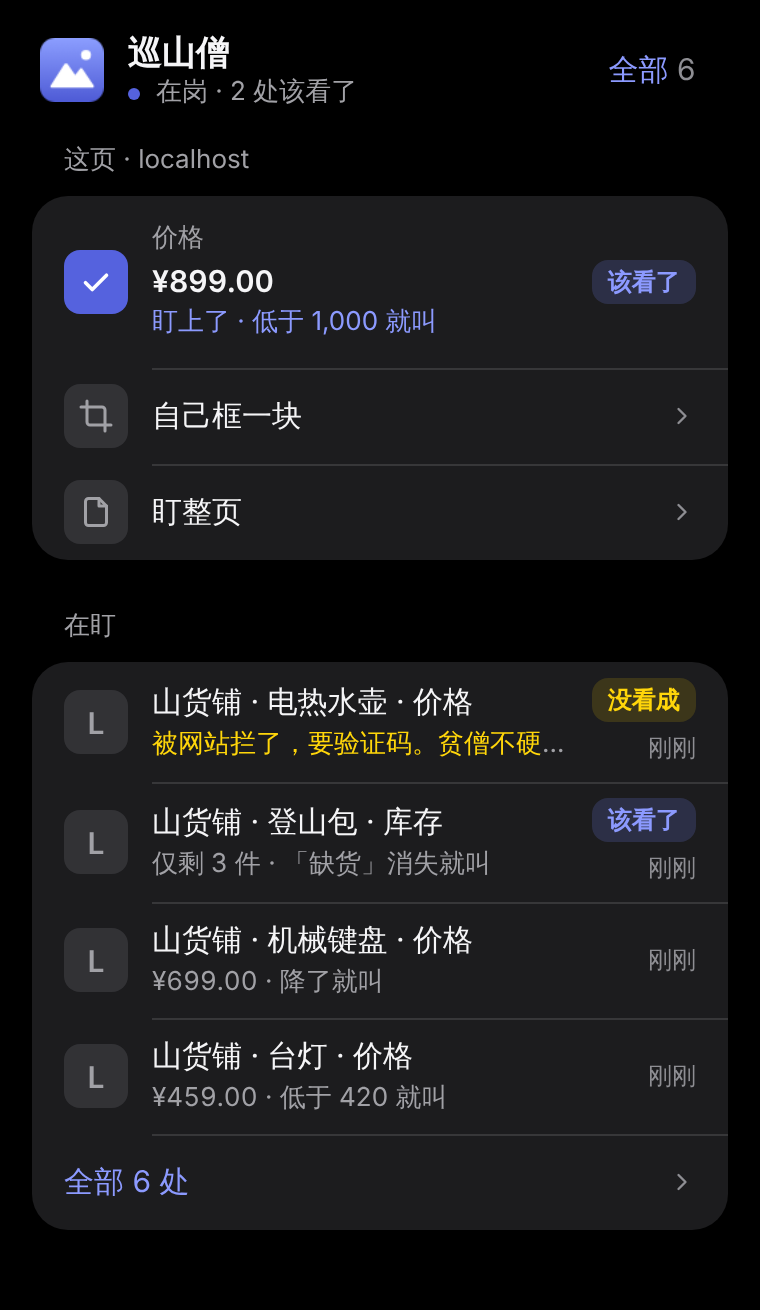
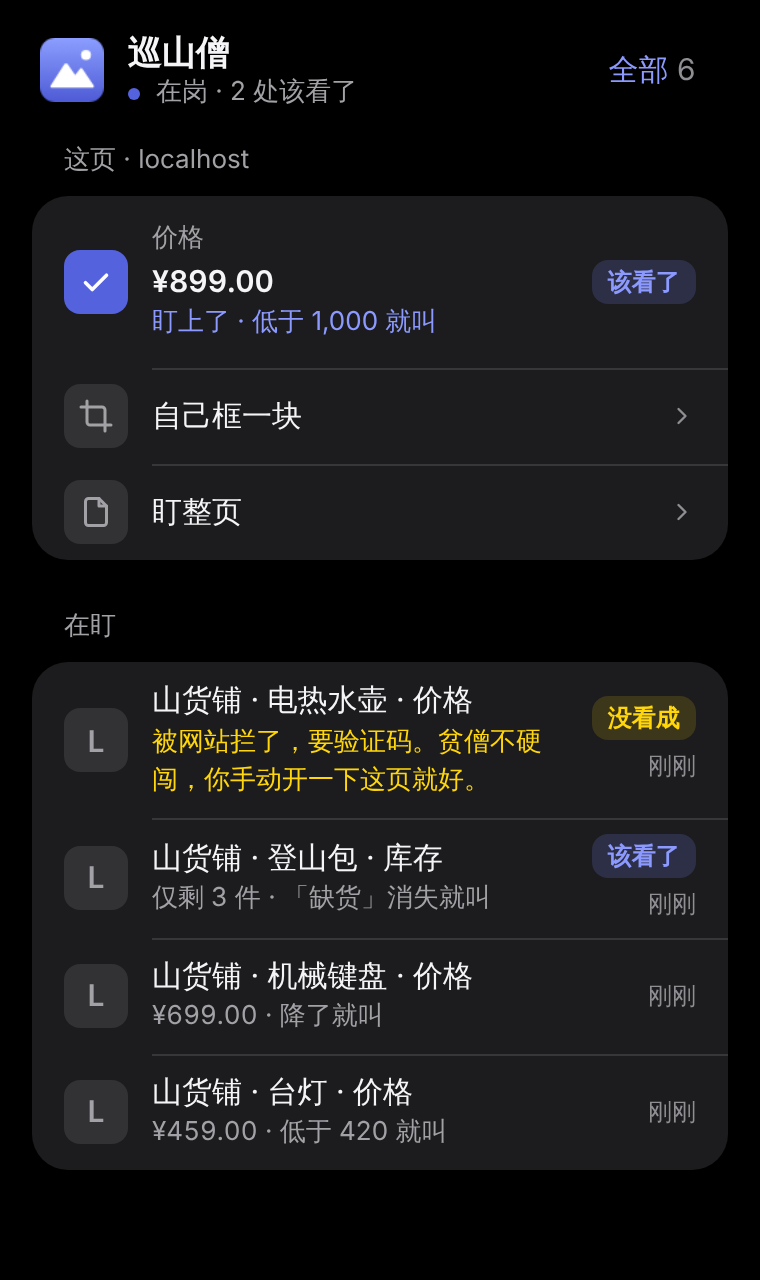
巡山僧 0.3.0：弹窗出错那条说明最多两行，不再截掉「怎么办」；去掉列表底下重复的「全部 N 处」
重出 3-result、4-error 浅深 4 张、介绍页 4 张和 img/popup*.webp；插件包重打。e2e --fast 75/75。

Claude-Session: https://claude.ai/code/session_01KCV9xrugD8gYybbP9zkdxi

diff --git a/xunshan/bench/shots-0.3.js b/xunshan/bench/shots-0.3.js
@@ -10,6 +10,11 @@ fs.mkdirSync(OUT, { recursive: true });
 const PORT = 8791, BASE = `http://localhost:${PORT}`;
 const sleep = ms => new Promise(r => setTimeout(r, ms));
 const errors = [];
+// ONLY=3-result,4-error,intro 只重出这几张（别的照样走流程，图写到临时目录扔掉）；不给就全出
+const ONLY = process.env.ONLY ? process.env.ONLY.split(',') : null;
+const want = f => !ONLY || ONLY.some(o => path.basename(f).startsWith(o));
+const TMP = fs.mkdtempSync(path.join(os.tmpdir(), 'xs-shot-'));
+const P = f => want(f) ? path.join(OUT, f) : path.join(TMP, f);
 
 async function toWebp(browser, png, out, q) {
   const p = await browser.newPage();
@@ -45,7 +50,7 @@ async function run(scheme) {
   const tabIdOf = url => sw.evaluate(u => chrome.tabs.query({}).then(ts => (ts.find(t => (t.url || '') === u) || {}).id), url);
   const S = scheme === 'dark' ? 'dark' : 'light';
   const pop = await ctx.newPage(); await pop.setViewportSize({ width: 380, height: 640 });
-  const popShot = async name => { await sleep(350); await pop.screenshot({ path: path.join(OUT, name + '-' + S + '.png'), fullPage: true }); };
+  const popShot = async name => { await sleep(350); await pop.screenshot({ path: P(name + '-' + S + '.png'), fullPage: true }); };
   const open = async p => { const pg = await ctx.newPage(); await pg.goto(BASE + p); return pg; };
   const popFor = async p => { await pop.goto(X('popup.html?tab=' + (await tabIdOf(BASE + p)))); await pop.waitForSelector('[data-a="pick"]'); };
   const addRow = async (label, cond) => {
@@ -100,25 +105,25 @@ async function run(scheme) {
   const b = await ord.locator('#status').boundingBox();
   await ord.mouse.move(b.x + 10, b.y + 8); await ord.mouse.click(b.x + 10, b.y + 8);
   await ord.waitForSelector('qianshou-picker .pn .seg'); await sleep(900);
-  await ord.screenshot({ path: path.join(OUT, 'x-pick-1280-' + S + '.png') });
+  await ord.screenshot({ path: P('x-pick-1280-' + S + '.png') });
   await ord.keyboard.press('Escape'); await ord.close();
 
   // 总览页 1280 / 390
   const pid = Object.values(await WS()).find(w => w.url.endsWith('/price')).id;
   const app = await ctx.newPage();
   await app.goto(X('app.html#' + pid)); await app.waitForSelector('.he'); await sleep(600);
-  await app.screenshot({ path: path.join(OUT, 'x-app-1280-' + S + '.png') });
+  await app.screenshot({ path: P('x-app-1280-' + S + '.png') });
   const hb = await app.locator('.hist-h').boundingBox(), cb = await app.locator('#hist .he').first().boundingBox();
-  await app.screenshot({ path: path.join(OUT, 'x-compare-' + S + '.png'), fullPage: true, clip: { x: cb.x - 24, y: hb.y - 24, width: cb.width + 48, height: cb.y + cb.height - hb.y + 48 } });
+  await app.screenshot({ path: P('x-compare-' + S + '.png'), fullPage: true, clip: { x: cb.x - 24, y: hb.y - 24, width: cb.width + 48, height: cb.y + cb.height - hb.y + 48 } });
   await app.setViewportSize({ width: 390, height: 844 }); await sleep(300);
-  await app.screenshot({ path: path.join(OUT, 'x-app-390-' + S + '.png') });
+  await app.screenshot({ path: P('x-app-390-' + S + '.png') });
   await app.setViewportSize({ width: 1280, height: 800 });
   // 加一串
   await app.goto(X('app.html#add')); await app.waitForSelector('#urls');
   await app.fill('#urls', [1, 2, 3, 4, 5, 6, 7, 8].map(i => BASE + '/shop/' + i).join('\n')); await app.fill('#lim', '100');
   await app.dispatchEvent('#urls', 'input'); await app.evaluate(() => { document.activeElement.blur(); scrollTo(0, 0); }); await sleep(300);
   const ab = await app.locator('#add').boundingBox();
-  await app.screenshot({ path: path.join(OUT, 'x-batch-1280-' + S + '.png'), clip: { x: ab.x - 24, y: ab.y - 24, width: ab.width + 48, height: ab.height + 48 } });
+  await app.screenshot({ path: P('x-batch-1280-' + S + '.png'), clip: { x: ab.x - 24, y: ab.y - 24, width: ab.width + 48, height: ab.height + 48 } });
   const hoz = await app.evaluate(() => document.documentElement.scrollWidth > innerWidth);
   if (hoz) errors.push(S + ' 总览页横向溢出');
   await ctx.close();
@@ -139,13 +144,14 @@ async function run(scheme) {
     const bad = await p.evaluate(() => ({ hoz: document.documentElement.scrollWidth > innerWidth, broken: [...document.images].filter(i => i.complete && !i.naturalWidth).map(i => i.currentSrc || i.src) }));
     if (bad.hoz) errors.push(`介绍页 ${w} ${scheme} 横向溢出`);
     if (bad.broken.length) errors.push(`介绍页 ${w} ${scheme} 坏图 ${bad.broken.join(',')}`);
-    await p.screenshot({ path: path.join(OUT, `intro-${w}-${scheme}.png`), fullPage: true });
+    await p.screenshot({ path: P(`intro-${w}-${scheme}.png`), fullPage: true });
     await p.close();
   }
   // 介绍页用图
   const pairs = [['x-app-1280', 'app'], ['3-result', 'popup'], ['x-batch-1280', 'batch'], ['x-compare', 'compare']];
   const dims = {};
   for (const [src, dst] of pairs) for (const s of ['light', 'dark']) {
+    if (!want(src)) continue;
     const d = await toWebp(browser, path.join(OUT, `${src}-${s}.png`), path.join(IMG, dst + (s === 'dark' ? '-dark' : '') + '.webp'));
     dims[dst] = [d.w, d.h];
   }

diff --git a/xunshan/extension/popup.js b/xunshan/extension/popup.js
@@ -118,7 +118,7 @@ function status(w) {
   return '';
 }
 function valueOf(w) {
-  if (w.err && !w.paused) return `<span style="color:var(--warn-fg)">${ui.esc(errText(w))}</span>`;
+  if (w.err && !w.paused) return ui.esc(errText(w));
   if (w.lastText == null) return t('waitingFirst');
   if (!w.selector) return ui.esc(w.lastNew ? t('newPrefix') + w.lastNew : (w.title || ui.host(w.url)));
   return `<span class="v">${ui.esc(oneLine(w.lastText).slice(0, 60))}</span> · ${ui.esc(rules.condLabel(w.cond))}`;
@@ -132,11 +132,11 @@ function renderList() {
   const hits = all.filter(w => w.unread).length;
   $('#duty').textContent = hits ? t('onDutyHit', hits) : all.length ? t('onDuty', all.length) : t('onDutyIdle');
   $('#dutyDot').className = 'dot ' + (hits ? 'hit' : 'on');
+  // 只列前几条；全部在顶上「全部 N」里，底下不再重复一行
   $('#list').innerHTML = shown.map(w => `
     <button class="row it" data-open="${w.id}">${ui.avatar(w.url)}
-      <div class="grow"><div class="t">${ui.esc(w.label || w.title || ui.host(w.url))}</div><div class="s">${valueOf(w)}</div></div>
-      <span class="end">${status(w)}<span class="tn">${ui.ago(w.lastChange || w.lastCheck)}</span></span></button>`).join('')
-    + (ws.length > shown.length ? `<a class="row more" href="app.html" target="_blank"><div class="grow">${t('openAll')} ${t('count', all.length)}</div>${ui.ICON.chev.replace('<svg', '<svg class="chev"')}</a>` : '');
+      <div class="grow"><div class="t">${ui.esc(w.label || w.title || ui.host(w.url))}</div><div class="s${w.err && !w.paused ? ' err2' : ''}">${valueOf(w)}</div></div>
+      <span class="end">${status(w)}<span class="tn">${ui.ago(w.lastChange || w.lastCheck)}</span></span></button>`).join('');
   $('#mine').hidden = !shown.length;
   $('#empty').hidden = all.length > 0;
 }

diff --git a/xunshan/index.html b/xunshan/index.html
@@ -108,7 +108,7 @@ code{font:400 15px ui-monospace,"SF Mono",Menlo,Consolas,monospace;background:va
 
   <section class="sec">
     <div class="txt"><h2>点一下，就盯上。</h2><p>价格、库存、剩余名额，贫僧自己认，不用你框。盯上默认降价就叫、缺货的等到货再叫；要设线，点「低于」打个数。认不出的，自己框一块也行。</p></div>
-    <div class="pic phone"><picture><source srcset="img/popup-dark.webp" media="(prefers-color-scheme: dark)"><img src="img/popup.webp" width="380" height="655" alt="巡山僧弹窗：认出价格 ¥1,299 和库存「缺货」，点价格那行就盯上了"></picture></div>
+    <div class="pic phone"><picture><source srcset="img/popup-dark.webp" media="(prefers-color-scheme: dark)"><img src="img/popup.webp" width="380" height="640" alt="巡山僧弹窗：认出价格 ¥1,299 和库存「缺货」，点价格那行就盯上了"></picture></div>
   </section>
 
   <section class="sec flip">

diff --git a/xunshan/extension/popup.css b/xunshan/extension/popup.css
@@ -36,7 +36,8 @@ body{width:380px;min-height:220px;padding:16px 16px 16px;background:var(--bg-gro
 .empty p{margin:0 0 12px}
 .empty b{display:block;color:var(--fg);font-weight:600;margin-bottom:4px}
 .empty-acts{display:flex;align-items:center;gap:8px}
-.more{color:var(--link)}
+/* 出错那条的说明最多两行，「怎么办」不被截掉；正常的仍一行 */
+.row .s.err2{white-space:normal;display:-webkit-box;-webkit-line-clamp:2;-webkit-box-orient:vertical;overflow:hidden;color:var(--warn-fg)}
 .row button.grow{display:block;padding:0;min-width:0;text-align:left;color:inherit}
 .row.cand.on{padding-top:12px;padding-bottom:12px}
 .row[disabled]{opacity:1;cursor:default}
